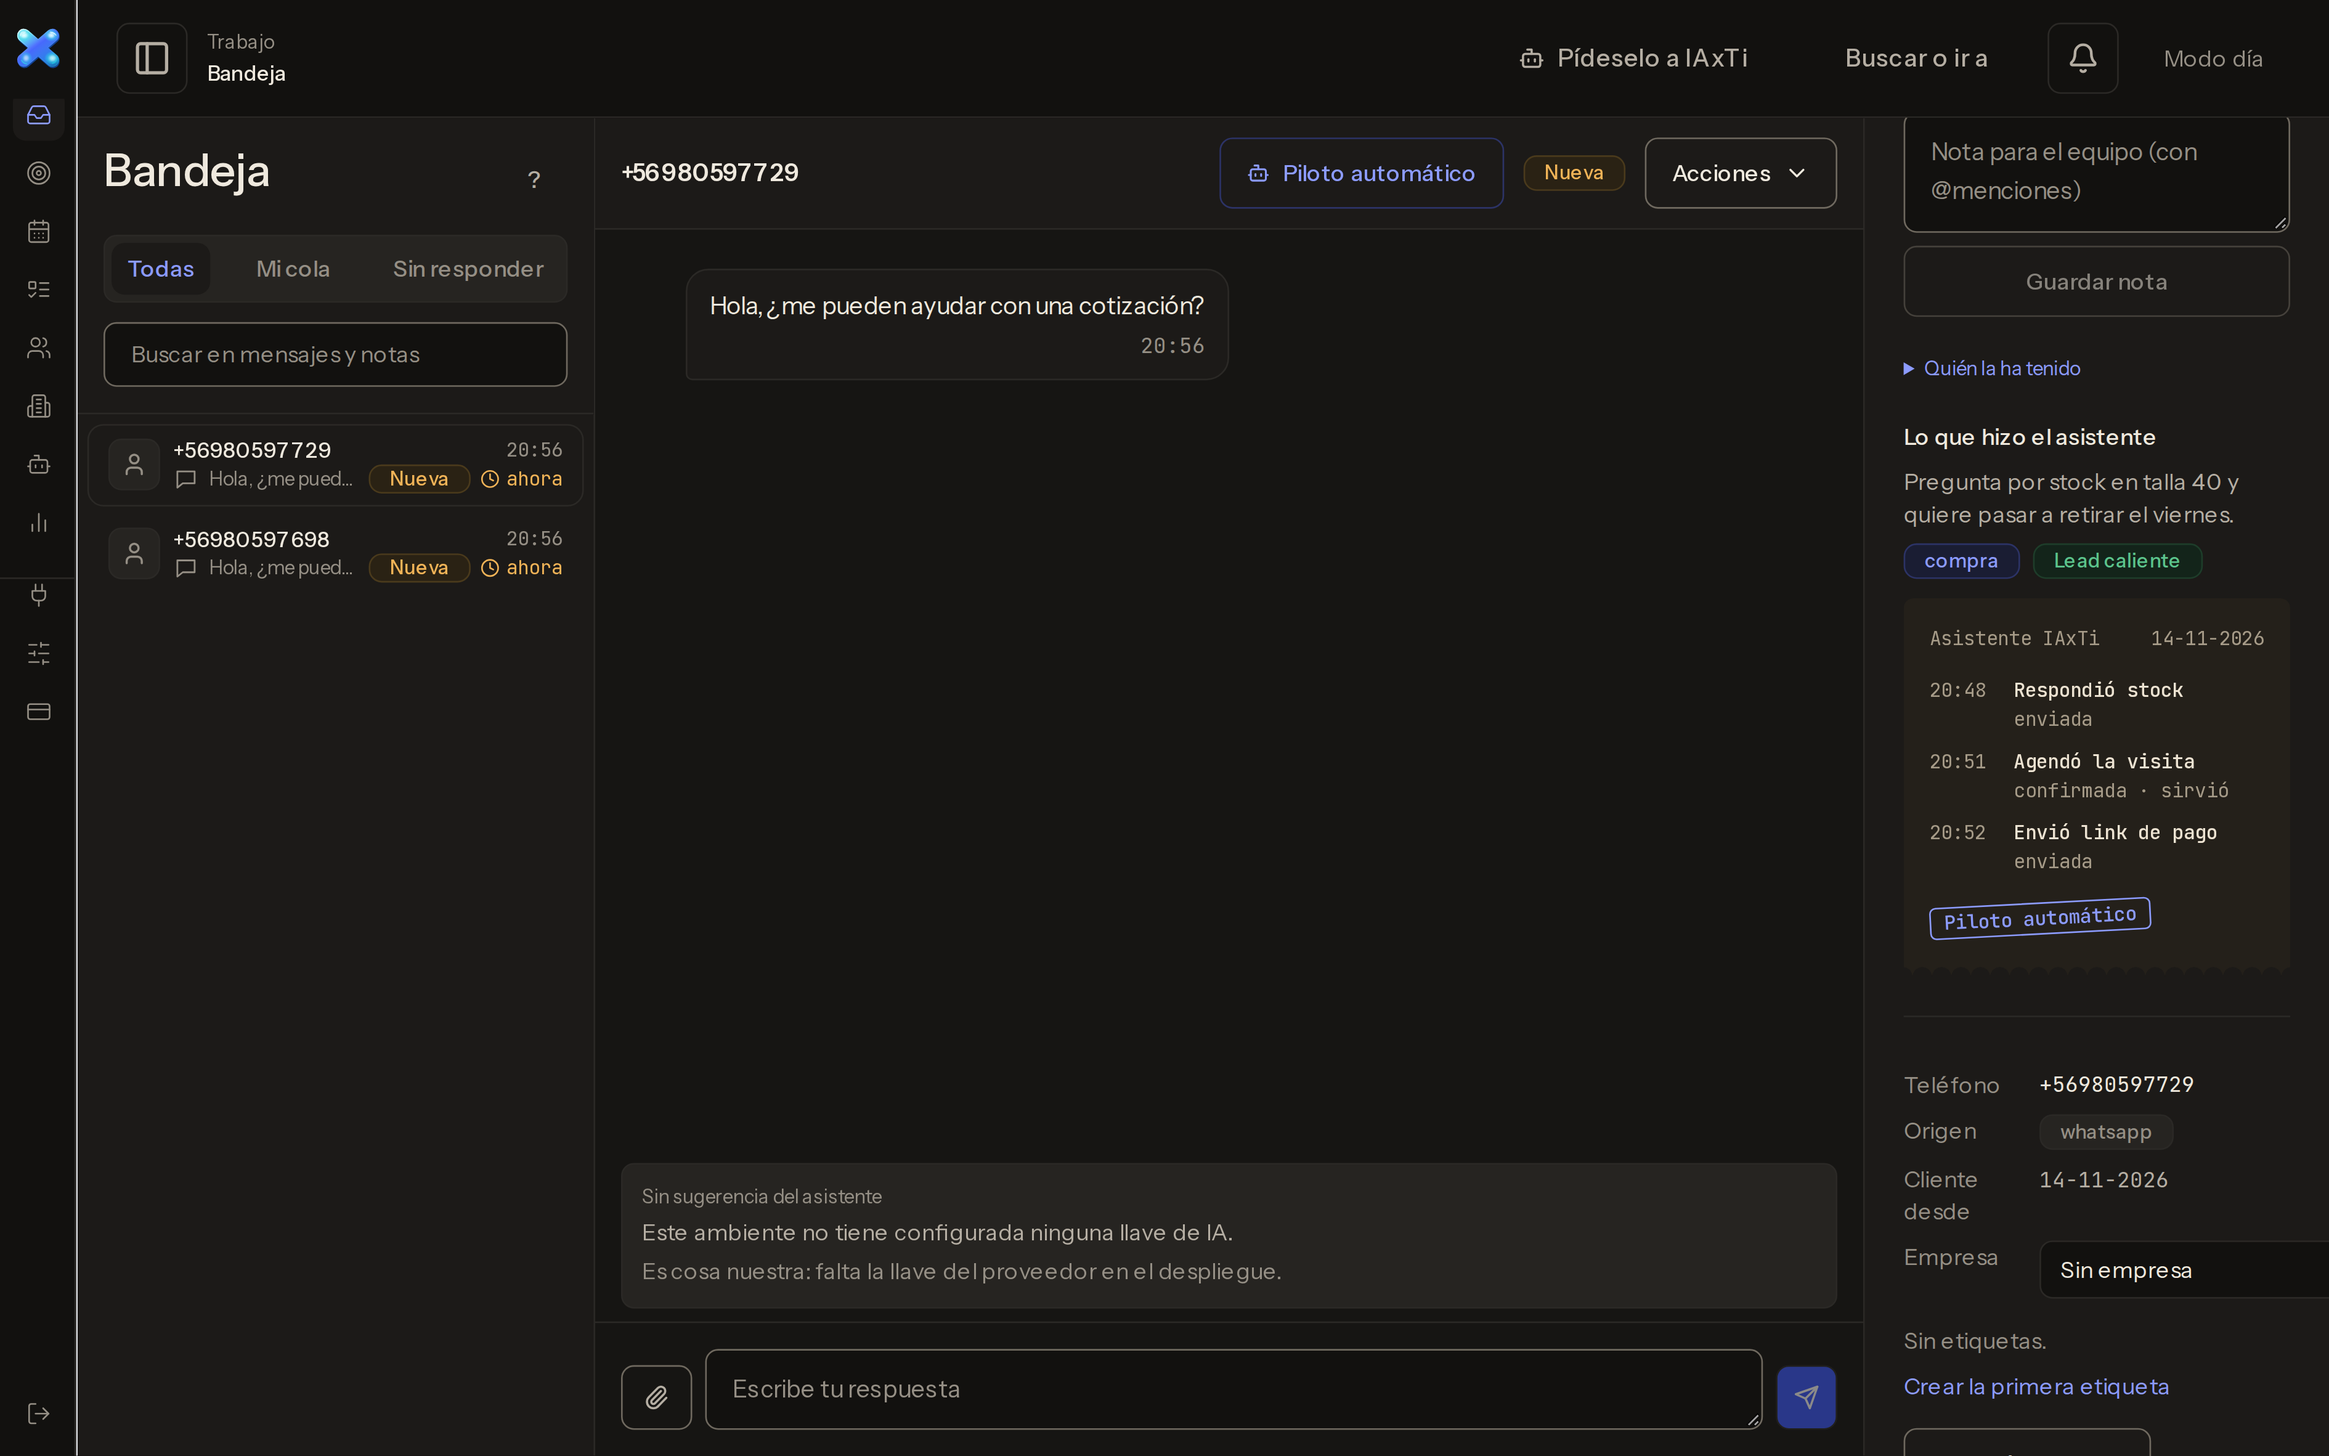
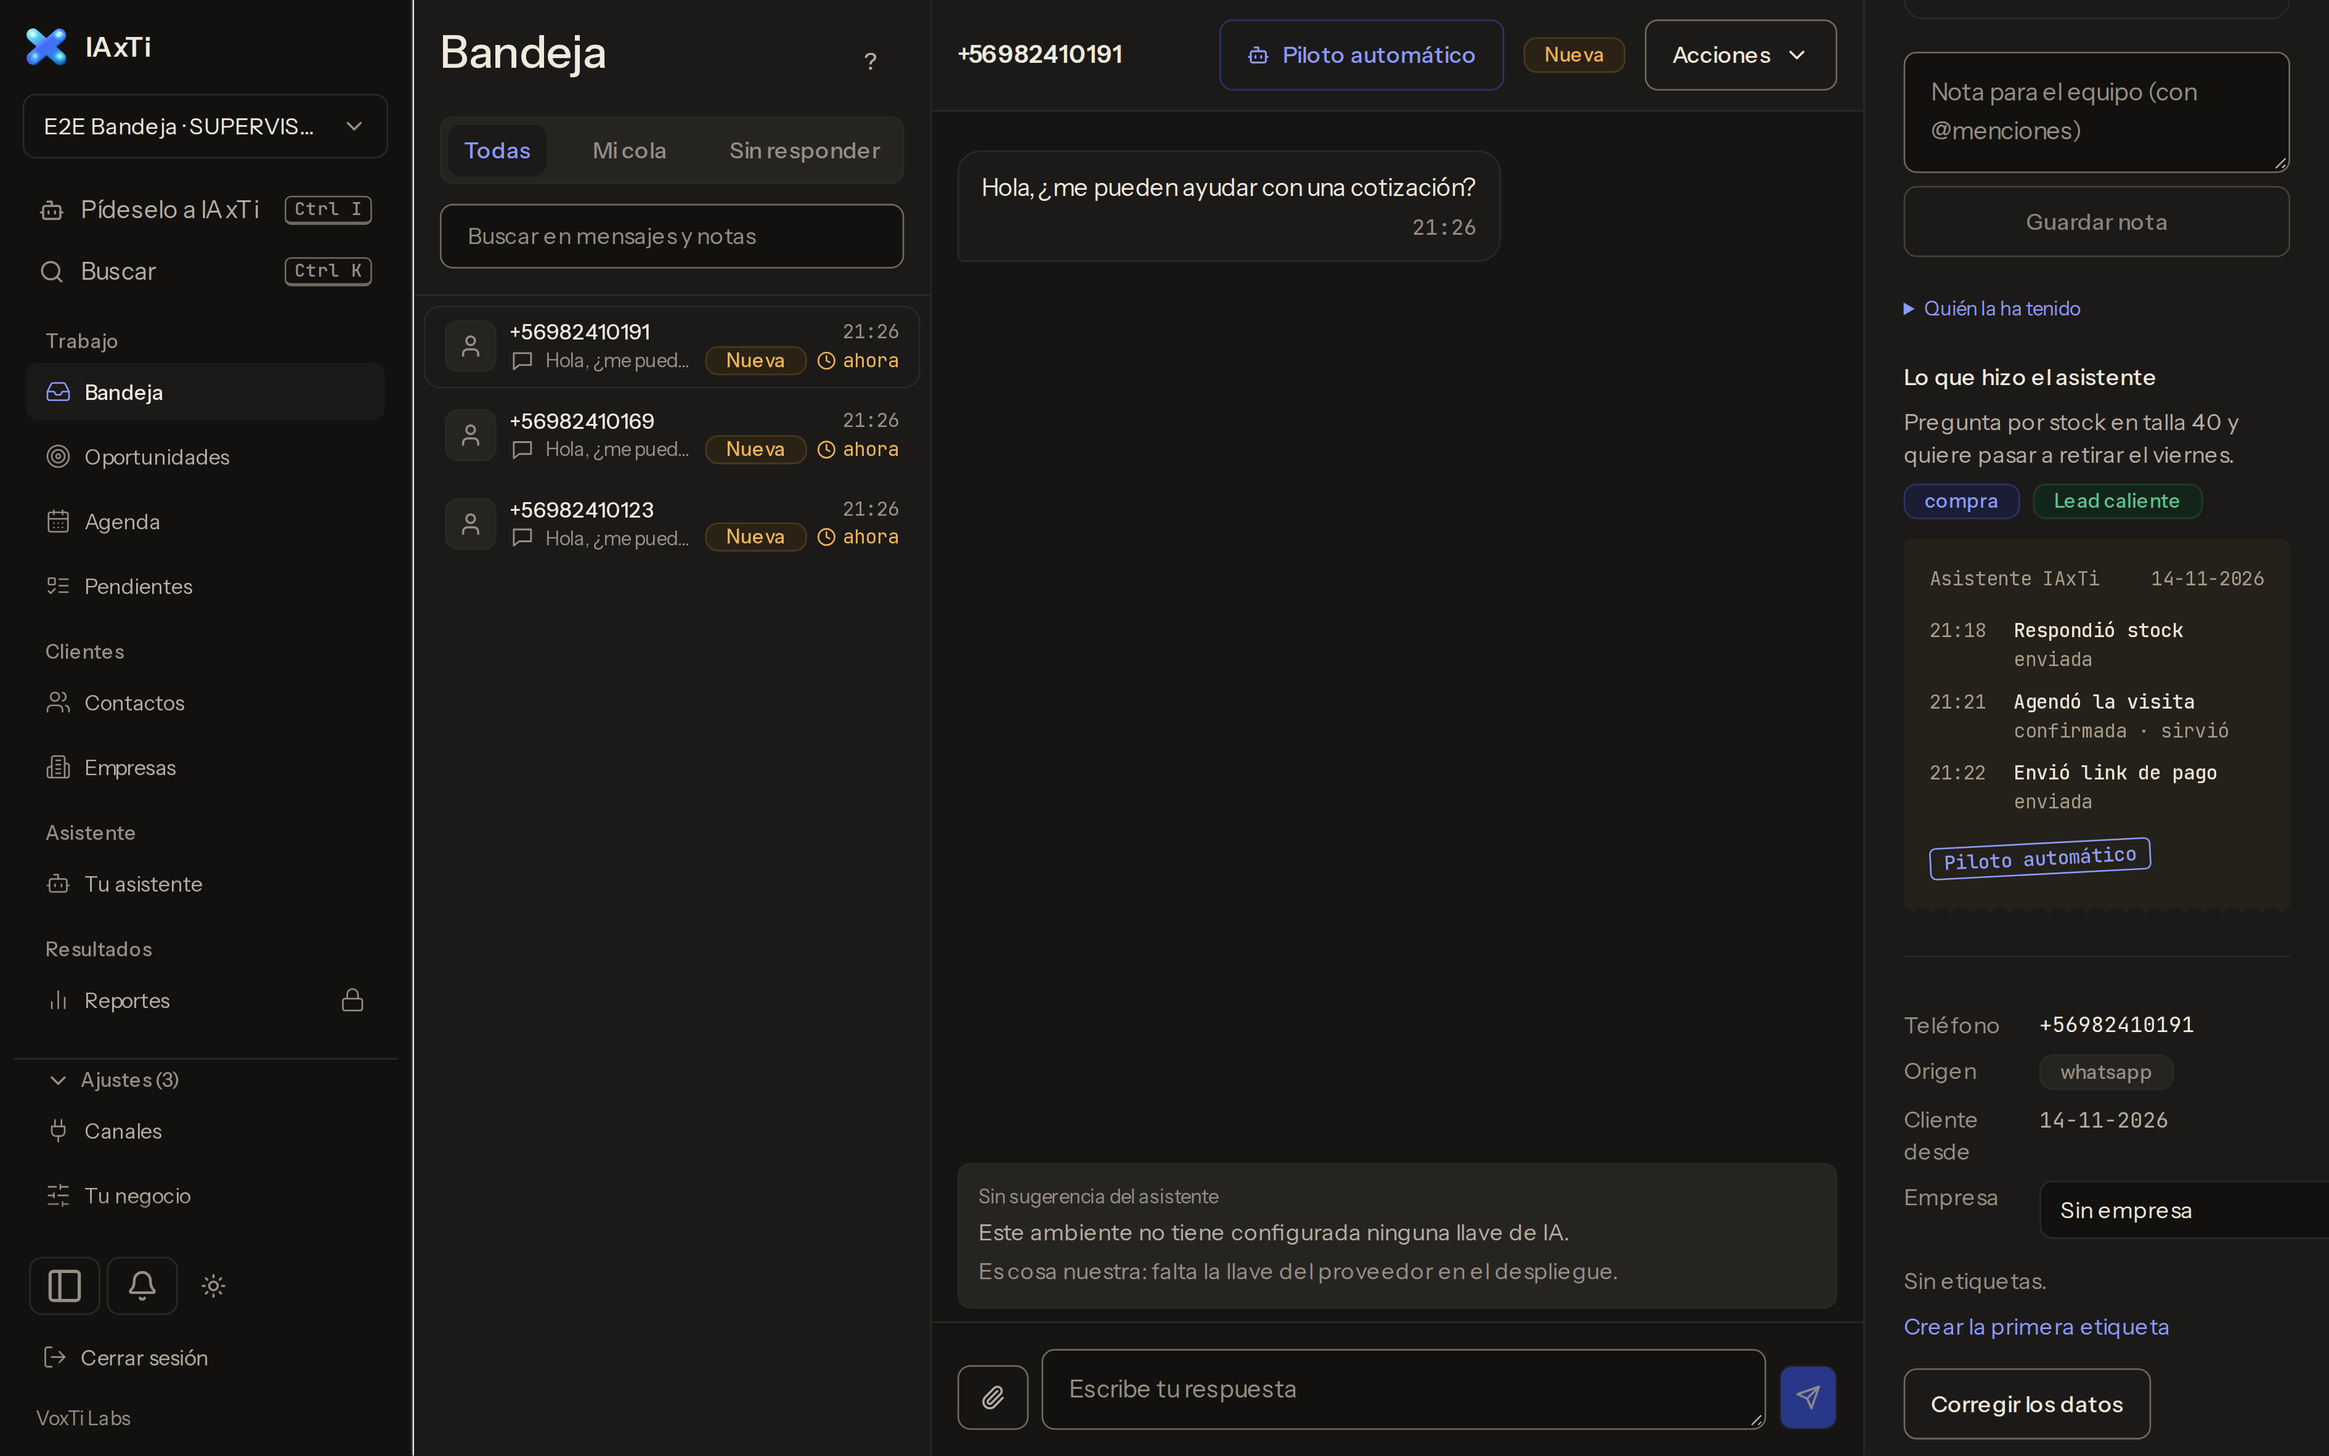
feat(ui): Mesón, el armazón — sin barra superior en escritorio (#1346)
Como en el prototipo aprobado: el título vive en la página y los
controles en la barra lateral.

- Escritorio: «Pídeselo a IAxTi» y «Buscar» son filas de la barra con
  su tecla (Ctrl I / Ctrl K); plegar, avisos y modo día/noche en el pie,
  solo icono. Plegada, quedan los iconos.
- Celular: la barra superior se queda —es la única forma de abrir el
  menú— con los mismos controles. Cada control se dibuja en UN lugar
  (useSidebar().isMobile): pedir y buscar registran su atajo y montarlos
  dos veces los dispararía dos veces.
- La barra arranca abierta también en la bandeja; barraPlegada se
  acepta y ya no pliega.
- Pruebas: agente-general afirma el orden en los dos lugares; teclado ya
  no abre la barra (estaba abierta y el clic la cerraba).

e2e completa local: 202/203; la que faltaba era la de teclado, corregida
(19/19 con la guarda de Mesón).

diff --git a/apps/web/components/app-shell.tsx b/apps/web/components/app-shell.tsx
@@ -21,6 +21,7 @@ import {
   SidebarProvider,
   SidebarRail,
   SidebarTrigger,
+  useSidebar,
   SessionProvider,
   useSession,
   type PublicConfig,
@@ -95,6 +96,8 @@ interface ShellProps {
    * Por qué la bandeja sí la pliega: sus TRES paneles —lista, chat, ficha— no
    * caben de otra forma, y quien abre una conversación se queda ahí.
    */
+  /** Ya no pliega nada (Mesón, #1346): la barra arranca abierta en todas las
+   *  pantallas. Se acepta para no tocar las páginas que lo pasan. */
   barraPlegada?: boolean;
   /**
    * Pantallas que ocupan el alto, no el ancho (#1135): el asistente.
@@ -474,8 +477,19 @@ function CerrarSesion() {
   );
 }
 
+/**
+ * La barra superior solo existe en el celular (Mesón, #1346): ahí es la única
+ * forma de abrir el menú. En escritorio el título vive en la página y los
+ * controles en la barra lateral.
+ */
+function CabezaDelCelular({ children }: { children: React.ReactNode }) {
+  const { isMobile } = useSidebar();
+  return isMobile ? <>{children}</> : null;
+}
+
 function Barra({ nav, candados }: { nav: NavItem[]; candados: Set<string> }) {
   const activa = usePathname();
+  const { isMobile } = useSidebar();
 
   const grupos = useMemo(() => {
     const por = new Map<string, NavItem[]>();
@@ -544,6 +558,16 @@ function Barra({ nav, candados }: { nav: NavItem[]; candados: Set<string> }) {
         <div className="group-data-[collapsible=icon]:hidden">
           <TenantSwitcher />
         </div>
+        {/* Mesón (#1346): pedir y buscar viven en la barra, no en una barra
+            superior. Se dibujan en UN solo lugar —acá en escritorio, arriba en
+            el celular— porque cada uno registra su atajo de teclado y montarlo
+            dos veces lo dispararía dos veces. */}
+        {!isMobile && (
+          <div className="pulso-barra-acciones">
+            <AgenteGeneral enBarra />
+            <PaletaComandos nav={nav} enBarra />
+          </div>
+        )}
       </SidebarHeader>
 
       <SidebarContent ref={contenidoDeLaBarra}>
@@ -557,6 +581,13 @@ function Barra({ nav, candados }: { nav: NavItem[]; candados: Set<string> }) {
             borde del área que hace scroll, así que la línea era una tercera
             forma de decir lo mismo — y costaba altura en la barra que no
             llegaba a mostrar su último grupo. */}
+        {!isMobile && (
+          <div className="pulso-barra-pie">
+            <SidebarTrigger />
+            <Campana />
+            <ModeToggle compacto />
+          </div>
+        )}
         <SidebarMenu>
           <SidebarMenuItem>
             <CerrarSesion />
@@ -659,7 +690,7 @@ function useNavDeRespaldo(hace: boolean): {
   return { nav, fallo, reintentar: () => setIntento((n) => n + 1) };
 }
 
-function ContenidoShell({ nav: navDelServidor, sinMargen, barraPlegada, altoCompleto, children }: ShellProps) {
+function ContenidoShell({ nav: navDelServidor, sinMargen, altoCompleto, children }: ShellProps) {
   // Menú y pestañas comparten la misma lectura; no duplicar módulos/acceso.
   const candados = useModulosConCandado();
   const respaldo = useNavDeRespaldo(navDelServidor === null);
@@ -720,7 +751,10 @@ function ContenidoShell({ nav: navDelServidor, sinMargen, barraPlegada, altoComp
             pantalla de tres paneles, y ahí cada píxel de ancho es una
             columna que se ve. */}
         <SidebarProvider
-          defaultOpen={!barraPlegada}
+          // Mesón (#1346): la barra arranca abierta también en la bandeja,
+          // como en el prototipo. A 1440 caben barra, lista, chat y ficha; quien
+          // la pliega queda recordado por la cookie del componente.
+          defaultOpen
           className={
             sinMargen
               ? 'pulso-workspace pulso-workspace-inbox'
@@ -732,6 +766,10 @@ function ContenidoShell({ nav: navDelServidor, sinMargen, barraPlegada, altoComp
           <Barra nav={nav} candados={candados} />
           <SidebarInset>
             <SoporteAviso />
+            {/* Sin barra superior en escritorio (Mesón, #1346): el título vive en
+                la página y los controles en la barra lateral. En el celular sí,
+                porque es la única forma de abrir el menú. */}
+            <CabezaDelCelular>
             <header className="pulso-topbar flex items-center gap-3 border-b border-line px-6 py-3">
               <SidebarTrigger />
               <div className="pulso-context">
@@ -749,6 +787,7 @@ function ContenidoShell({ nav: navDelServidor, sinMargen, barraPlegada, altoComp
                 <ModeToggle />
               </div>
             </header>
+            </CabezaDelCelular>
             {/* Un menú vacío no puede ser el mensaje de error (#679). Antes
                 la barra desaparecía y la pantalla no decía nada: quien la miraba
                 concluía que el producto se rompió, que es lo que pasó el 27/09.

diff --git a/apps/web/components/paleta-comandos.tsx b/apps/web/components/paleta-comandos.tsx
@@ -1,5 +1,6 @@
 'use client';
 
+import { Search } from 'lucide-react';
 import { useEffect, useState } from 'react';
 import { useRouter } from 'next/navigation';
 import {
@@ -9,7 +10,7 @@ import {
 import { apiFetch, ApiError, type BusquedaHit } from '../lib/api';
 import { selectedTenant } from './tenant-switcher';
 
-export function PaletaComandos({ nav }: { nav: Array<{ path: string; label: string }> }) {
+export function PaletaComandos({ nav, enBarra = false }: { nav: Array<{ path: string; label: string }>; enBarra?: boolean }) {
   const { session, config } = useSession();
   const router = useRouter();
   const [open, setOpen] = useState(false);
@@ -57,7 +58,10 @@ export function PaletaComandos({ nav }: { nav: Array<{ path: string; label: stri
   const go = (path: string) => { setOpen(false); router.push(path); };
   const normal = (text: string) => text.normalize('NFD').replace(/[\u0300-\u036f]/g, '').toLowerCase();
   return <Dialog open={open} onOpenChange={setOpen}>
-    <DialogTrigger asChild><Button variant="fantasma" aria-label="Buscar o ir a" aria-keyshortcuts="Control+k Meta+k"><span className="sm:hidden">Buscar</span><span className="hidden sm:inline">Buscar o ir a</span></Button></DialogTrigger>
+    <DialogTrigger asChild>{enBarra
+      /* En la barra lateral (Mesón, #1346): una fila con su icono y la tecla. */
+      ? <Button variant="fantasma" className="pulso-fila-de-barra" aria-label="Buscar o ir a" aria-keyshortcuts="Control+k Meta+k"><Search aria-hidden /><span className="pulso-fila-texto">Buscar</span><kbd className="pulso-tecla">Ctrl K</kbd></Button>
+      : <Button variant="fantasma" aria-label="Buscar o ir a" aria-keyshortcuts="Control+k Meta+k"><span className="sm:hidden">Buscar</span><span className="hidden sm:inline">Buscar o ir a</span></Button>}</DialogTrigger>
     <DialogContent className="pulso-entrada">
       <DialogTitle>Buscar o ir a una pantalla</DialogTitle>
       <DialogDescription>Ctrl+K o ⌘K abre la paleta. Usa las flechas para elegir y Enter para abrir.</DialogDescription>

diff --git a/packages/ui/pulso-vivo.css b/packages/ui/pulso-vivo.css
@@ -398,3 +398,16 @@ body { background: var(--canvas); font-size: 15px; }
   -webkit-mask: radial-gradient(6px at 50% 100%, transparent 98%, black) 50% 100% / 12px 100% repeat-x;
           mask: radial-gradient(6px at 50% 100%, transparent 98%, black) 50% 100% / 12px 100% repeat-x;
 }
+/* Mesón (#1346): pedir y buscar como filas de la barra lateral, con su tecla. */
+.pulso-barra-acciones { display: flex; flex-direction: column; gap: 2px; }
+.pulso-fila-de-barra { width: 100%; height: 36px; min-height: 36px; justify-content: flex-start; gap: 10px; padding-inline: 10px; border-radius: 8px; color: var(--text-body); font-weight: 400; }
+.pulso-fila-de-barra > svg { width: 16px; height: 16px; color: var(--text-muted); }
+.pulso-fila-de-barra:hover { background: var(--bg-rest); color: var(--text); }
+.pulso-tecla { margin-left: auto; padding: 2px 5px; border: 1px solid var(--border-strong); border-bottom-width: 2px; border-radius: 4px; font: 500 11px/1 'JetBrains Mono', ui-monospace, monospace; color: var(--text-muted); }
+.pulso-barra-pie { display: flex; align-items: center; gap: 4px; padding: 0 4px; }
+.pulso-barra-pie button { min-height: 36px; min-width: 36px; height: 36px; padding: 0; border-radius: 8px; border-color: transparent; background: transparent; box-shadow: none; color: var(--text-muted); }
+.pulso-barra-pie button:hover { background: var(--bg-rest); color: var(--text); }
+.group[data-collapsible="icon"] .pulso-fila-texto,
+.group[data-collapsible="icon"] .pulso-tecla { display: none; }
+.group[data-collapsible="icon"] .pulso-fila-de-barra { justify-content: center; padding: 0; }
+.group[data-collapsible="icon"] .pulso-barra-pie { flex-direction: column; }

diff --git a/packages/ui/src/react/mode-toggle.tsx b/packages/ui/src/react/mode-toggle.tsx
@@ -5,7 +5,7 @@ import { Moon as Luna, Sun as Sol } from 'lucide-react';
 import { getMode, toggleMode, type PulsoMode } from '../mode';
 
 /** Cambia día/noche y persiste la elección por usuario (Pulso §9/§11). */
-export function ModeToggle() {
+export function ModeToggle({ compacto = false }: { compacto?: boolean } = {}) {
   const [mode, setModeState] = useState<PulsoMode>('dia');
   useEffect(() => setModeState(getMode()), []);
   return (
@@ -36,10 +36,12 @@ export function ModeToggle() {
        * un texto largo, y acá quien usa lector de pantalla oye lo mismo en
        * las dos anchuras.
        */}
-      <span className="hidden sm:inline">{mode === 'dia' ? 'Modo noche' : 'Modo día'}</span>
+      {/* Compacto (Mesón, #1346): en el pie de la barra es solo el icono; el
+          nombre accesible ya dice qué hace. */}
+      {!compacto && <span className="hidden sm:inline">{mode === 'dia' ? 'Modo noche' : 'Modo día'}</span>}
       {mode === 'dia'
-        ? <Luna aria-hidden className="size-5 sm:hidden" />
-        : <Sol aria-hidden className="size-5 sm:hidden" />}
+        ? <Luna aria-hidden className={compacto ? 'size-4' : 'size-5 sm:hidden'} />
+        : <Sol aria-hidden className={compacto ? 'size-4' : 'size-5 sm:hidden'} />}
     </button>
   );
 }

diff --git a/apps/web/components/agente-general.tsx b/apps/web/components/agente-general.tsx
@@ -17,18 +17,21 @@ import { Button, Dialog, DialogContent, DialogDescription, DialogTitle } from '@
 import { Conversacion } from './agente/conversacion';
 import { useAgente } from './agente/estado';
 
-export function AgenteGeneral() {
+export function AgenteGeneral({ enBarra = false }: { enBarra?: boolean } = {}) {
   const { abierto, setAbierto } = useAgente();
   return (
     <Dialog open={abierto} onOpenChange={setAbierto}>
       <Button
         variant="fantasma"
+        className={enBarra ? 'pulso-fila-de-barra' : undefined}
         onClick={() => setAbierto(true)}
         aria-keyshortcuts="Control+i Meta+i"
         aria-label="Pedirle algo a IAxTi"
       >
         <Bot aria-hidden className="size-4" />
-        <span className="hidden sm:inline">Pídeselo a IAxTi</span>
+        {enBarra
+          ? <><span className="pulso-fila-texto">Pídeselo a IAxTi</span><kbd className="pulso-tecla">Ctrl I</kbd></>
+          : <span className="hidden sm:inline">Pídeselo a IAxTi</span>}
       </Button>
       <DialogContent className="pulso-entrada flex max-h-[min(78vh,640px)] w-[calc(100vw-24px)] max-w-2xl flex-col gap-0 p-0">
         <div className="flex flex-col gap-1 border-b border-line px-6 py-4">

diff --git a/apps/web/e2e/teclado.spec.ts b/apps/web/e2e/teclado.spec.ts
@@ -72,7 +72,8 @@ test('cambiar de negocio descarta la conversación sobre la que actúan los ataj
   await expect(page.getByRole('button', { name: /Ana Teclado/ })).toBeVisible();
   await page.keyboard.press('j');
   await expect(page.getByRole('textbox', { name: 'Mensaje', exact: true })).toBeVisible();
-  await page.getByRole('button', { name: 'Mostrar u ocultar el menú' }).click();
+  // Desde Mesón (#1346) la barra arranca abierta también en la bandeja: el
+  // selector de negocio ya está a la vista y abrirla sería cerrarla.
   await elegirPorValor(page, { nombre: 'Negocio', exacto: true }, auth.tableTenantId);
   await expect(page.getByRole('textbox', { name: 'Mensaje', exact: true })).toHaveCount(0);
   await expect(page.getByRole('button', { name: /Ana Teclado/ })).toHaveCount(0);

diff --git a/apps/web/tests/agente-general.test.ts b/apps/web/tests/agente-general.test.ts
@@ -39,7 +39,12 @@ describe('está presente en toda la app', () => {
   });
 
   it('va antes de buscar: pedir es lo que se hace más seguido', () => {
-    expect(SHELL.indexOf('<AgenteGeneral />')).toBeLessThan(SHELL.indexOf('<PaletaComandos'));
+    // Desde Mesón (#1346) se dibujan en dos lugares —la barra lateral en
+    // escritorio, la cabecera en el celular— y en los dos va primero pedir.
+    const pedir = [...SHELL.matchAll(/<AgenteGeneral\b/g)].map((m) => m.index!);
+    const buscar = [...SHELL.matchAll(/<PaletaComandos\b/g)].map((m) => m.index!);
+    expect(pedir.length).toBe(buscar.length);
+    pedir.forEach((i, n) => expect(i).toBeLessThan(buscar[n]));
   });
 
   it('se abre con un atajo desde cualquier pantalla', () => {
